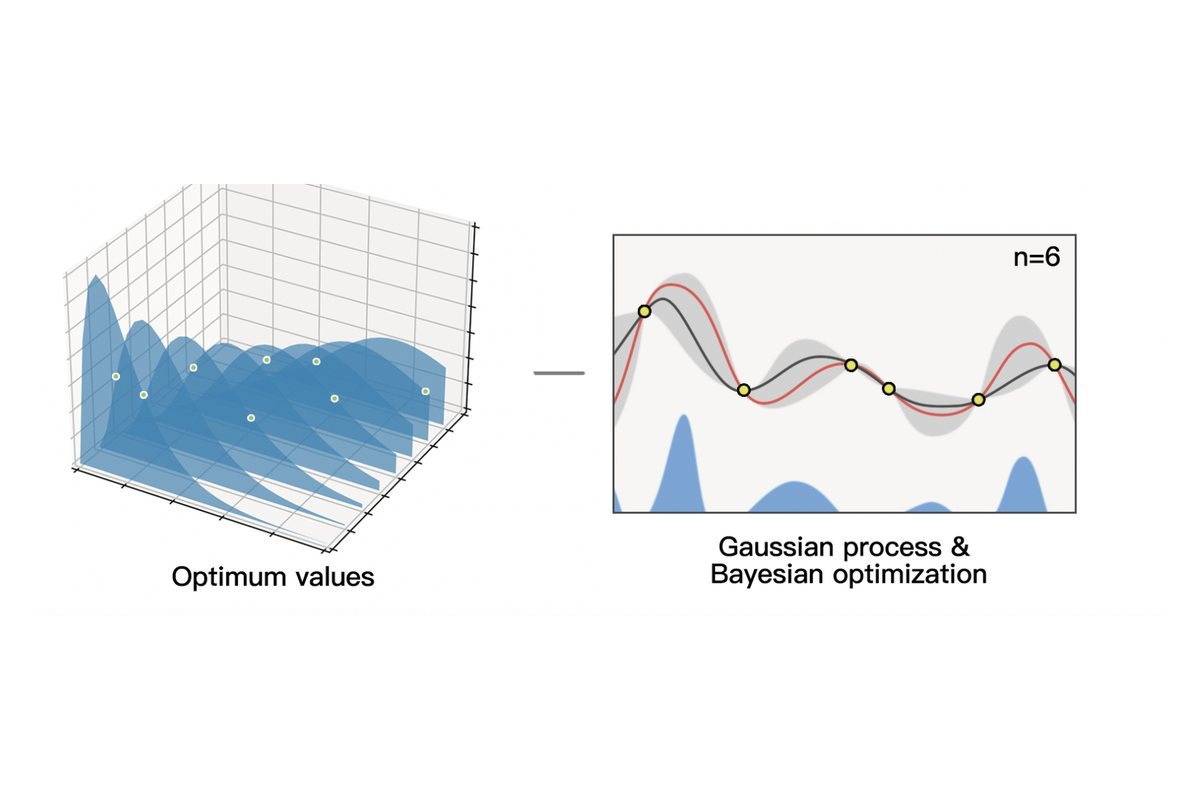
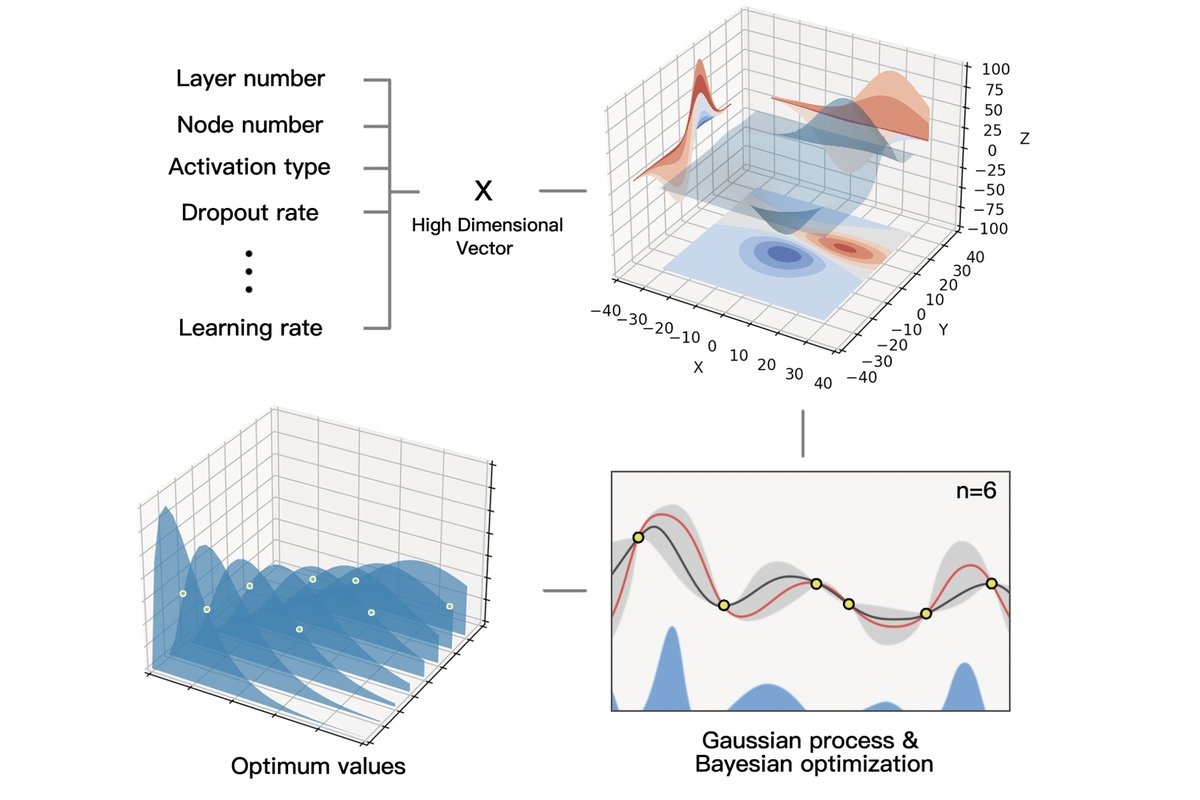
智慧开采卡片换为完整贝叶斯优化原图（白边补成 3:2）；研究方向卡片图框改为 3:2、object-fit: contain，完整显示不裁切

Changed region(s): [[0.4625, 0.0, 0.925, 0.8125], [0.0617, 0.0938, 0.4625, 0.9688], [0.4933, 0.7812, 0.8325, 0.9688]]

diff --git a/assets/css/custom.css b/assets/css/custom.css
@@ -78,3 +78,6 @@ html.dark .flip-brand-cn__org{color:#CBD5E1}
 /* 首页研究方向卡片：真实图片，不叠渐变、不降透明度 */
 .flip-areas .h-48{background:#fff!important}
 .flip-areas .h-48 img{opacity:1!important}
+/* 研究方向卡片图完整显示：框按 3:2，图片 contain 不裁切、不悬停放大 */
+.flip-areas .h-48{height:auto!important;aspect-ratio:3/2}
+.flip-areas .h-48 img{object-fit:contain!important;transform:none!important}
